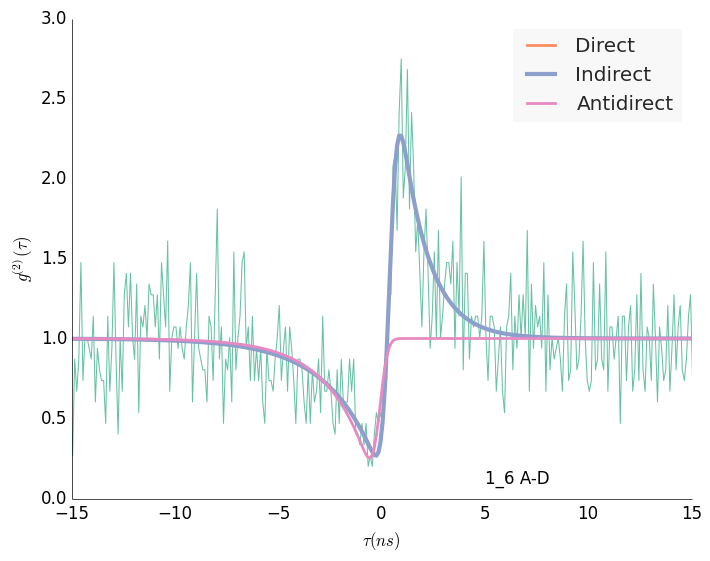
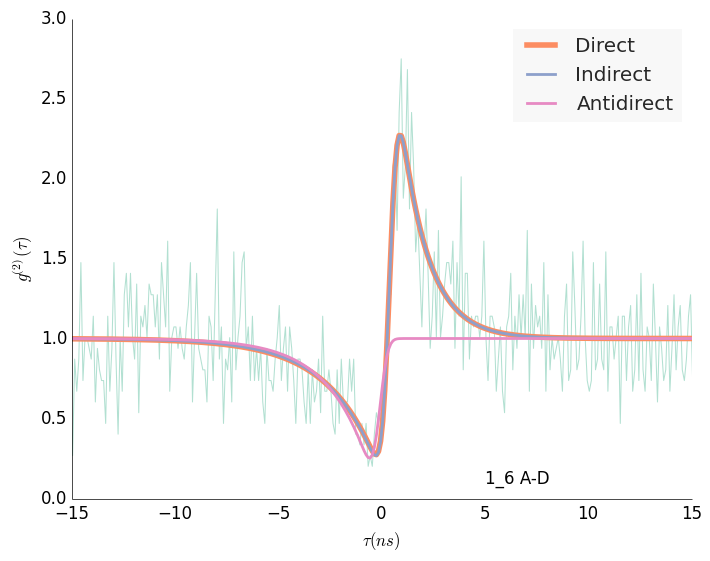
added peak 7 corrs

Changed region(s): [[0.5268, 0.1212, 0.9915, 0.7273], [0.093, 0.4242, 0.5577, 0.8182], [0.7437, 0.0606, 0.7746, 0.0909]]

diff --git a/corrs_specific.py b/corrs_specific.py
@@ -1,10 +1,9 @@
 import matplotlib.pyplot as plt
 
-# try:
-import prettyplotlib as ppl
-from prettyplotlib import brewer2mpl
-# except ImportError:
-#     ppl = plt
+try:
+    import prettyplotlib as ppl
+except ImportError:
+    ppl = plt
 
 
 import numpy as np
@@ -13,8 +12,15 @@ import g2 as g2
 np.seterr(all="ignore")
 
 
-names = ['1_3', '3_5', '2_3', '1_6', '2_6', '4_5']
-types = ['indirect', 'indirect', 'direct', 'direct', 'indirect', 'direct']
+types = ['indirect', 'indirect', 'direct', 'direct',
+         'indirect', 'direct', 'direct', 'direct',
+         'antidirect', 'antidirect', 'antidirect']
+
+names = ['1_3', '3_5', '2_3', '1_6', '2_6', '4_5', '1_7', '2_7', '3_7', '5_7', '6_7']
+labels = ['1_3 A-I', '3_5 A-I', '2_3 A-D', '1_6 A-D', '2_6 A-A/I', '4_5 A-D', '1_7', '2_7', '3_7', '5_7', '6_7']
+
+zeropoints = [171.6, 171.0, 171.5, 170.5, 171.1, 171.2, 171.2, 171.2, 171.2, 171.2, 171.2]
+
 
 p0s = [
     [0.6, 1.1, 0.4, 0.5, 0],
@@ -22,12 +28,13 @@ p0s = [
     [4, 1, 0.4, 0],
     [4, 1, 0.4, 0],
     [0.6, 1.1, 0.4, 0.5, 0],
-    [4, 1, 0.4, 0]
+    [4, 1, 0.4, 0],
+    [4, 1, 0.4, 0],
+    [4, 1, 0.4, 0],
+    [0.5, 0.5, 0],
+    [0.5, 0.5, 0],
+    [0.5, 0.5, 0]
 ]
-
-states = ['XXT5', 'XXT1', 'XP', 'XX', 'X', 'XT5']
-labels = ['1_3 A-I', '3_5 A-I', '2_3 A-D', '1_6 A-D', '2_6 A-A/I', '4_5 A-D']
-zeropoints = [171.6, 171.0, 171.5, 170.5, 171.1, 171.2]
 
 
 def main():
@@ -36,7 +43,7 @@ def main():
         file.write("")
 
     # for i in [5]:
-    for i in [0, 1, 2, 3, 4, 5]:
+    for i in [0, 1, 2, 3, 4, 5, 6, 7, 8, 9, 10]:
 
         name = names[i]
         label = labels[i]
@@ -57,6 +64,9 @@ def main():
         elif type == "indirect":
             popti, pcovi = optimize.curve_fit(g2.g2c_indirect, time, counts_n, p0=p0s[i])
             perri = np.sqrt(np.diag(pcovi))
+        elif type == "antidirect":
+            popta, pcova = optimize.curve_fit(g2.g2c_antidirect, time, counts_n, p0=p0s[i])
+            perra = np.sqrt(np.diag(pcova))
 
         with open('output/fit_specific.md', "a") as file:
             file.write("\n# %s\n" % label)
@@ -75,6 +85,11 @@ def main():
                 file.write("\tl3: %1.3lf +- %1.3lf\n" % (popti[2], perri[2]))
                 file.write("\tl2: %1.3lf +- %1.3lf\n" % (popti[3], perri[3]))
 
+            elif type == "antidirect":
+                file.write("## Antidirect\n")
+                file.write("\tl1: %1.3lf +- %1.3lf\n" % (popta[0], perra[0]))
+                file.write("\tl2: %1.3lf +- %1.3lf\n" % (popta[1], perra[1]))
+
         # just plotting stuff now
         plt.close()
         ppl.plot(time, counts_n)
@@ -82,6 +97,8 @@ def main():
             ppl.plot(time, g2.g2c_direct(time, *poptd), label="Direct", linewidth=2)
         elif type == "indirect":
             ppl.plot(time, g2.g2c_indirect(time, *popti), label="Indirect", linewidth=2)
+        elif type == "antidirect":
+            ppl.plot(time, g2.g2c_antidirect(time, *popta), label="Antidirect", linewidth=2)
 
         plt.text(5, 0.1, label)
         plt.xlim([-15, 15])
@@ -92,7 +109,7 @@ def main():
         plt.ylabel("$g^{(2)}(\\tau)$")
 
         print "saving output/corrs%s.png" % name
-        plt.savefig('output/corrs%s_specific.png' % name, bbox_extra_artists=[xlabel],
+        plt.savefig('output/specific_corrs%s.png' % name, bbox_extra_artists=[xlabel],
                     bbox_inches='tight')
 
 

diff --git a/spectrum.py b/spectrum.py
@@ -11,20 +11,40 @@ ax.spines['right'].set_visible(False)
 ax.spines['top'].set_visible(False)
 ax.xaxis.set_ticks_position('bottom')
 ax.yaxis.set_ticks_position('left')
+
 ax.yaxis.label.set_size(18)
 ax.xaxis.label.set_size(18)
 ax.ticklabel_format(useOffset=False)
 plt.setp(ax.spines.values(), alpha=0.5)
 plt.tick_params(axis='both', which='major', labelsize=16)
+# plt.tight_layout()
 
-data = np.loadtxt('input/A1208_28_05_14/02/spectrum.dat')
+data = np.loadtxt('./in/raw/A1208 RTD spectrum.dat')
+
 wavelength = data[:, 0]
 intensity = data[:, 1]
 max_intensity = 1.2*intensity.max()
 energy = (1000)*1239.84187/wavelength  # eV from wiki page on electronvolt
-peak_positions = [1393, 1394.85, 1396.67]
-names = ["$X-$", "$X$", "$XX$"]
-heights = [0.7, 0.9, 0.7]
+
+peak_positions = [
+    1386.85,
+    1387.3,
+    1390.58,
+    1391.2,
+    1391.89,
+    1392.55,
+]
+
+names = [
+    "$X_{T5/2}+$",
+    "$X$",
+    "$XX$",
+    "$X+$",
+    "$XX_{T1/2}+$",
+    "$XX_{T5/2}+$"
+]
+
+heights = [0.5, 0.7, 0.5, 0.9, 0.5, 0.7]
 
 for i in xrange(len(peak_positions)):
     pos = peak_positions[i]
@@ -33,11 +53,22 @@ for i in xrange(len(peak_positions)):
     plt.text(pos-0.25, max_intensity*(heights[i]+0.065), names[i], alpha=1, size=12)
 
 plt.fill_between(energy, intensity, color=set2[4])
-plt.xlim([1392, 1397.5])
+
+
+def gauss(x, *p):
+    a = 1400
+    b = 1391.2
+    c = p[0]
+    d = 37
+    return a*np.exp(-((x-b)**2)/(2*c**2)) + d
+
+plt.xlim([1385.5, 1393])
 plt.ylim([0, max_intensity])
+
 plt.yticks([])
 
 xlabel = plt.xlabel("Energy ($meV$)")
 plt.ylabel("Intensity (a.u.)")
 
-plt.savefig('./output/spectrum.png', bbox_extra_artists=[xlabel], bbox_inches='tight')
+plt.savefig('./temp/spectrum.png', bbox_extra_artists=[xlabel], bbox_inches='tight')
+plt.savefig('./temp/spectrum.pdf', bbox_extra_artists=[xlabel], bbox_inches='tight')

diff --git a/corrs_all.py b/corrs_all.py
@@ -1,11 +1,9 @@
 import matplotlib.pyplot as plt
 
-# try:
-import prettyplotlib as ppl
-from prettyplotlib import brewer2mpl
-# except ImportError:
-#     ppl = plt
-
+try:
+    import prettyplotlib as ppl
+except ImportError:
+    ppl = plt
 
 import numpy as np
 import scipy.optimize as optimize
@@ -13,10 +11,10 @@ import g2 as g2
 np.seterr(all="ignore")
 
 
-names = ['1_3', '3_5', '2_3', '1_6', '2_6', '4_5']
-states = ['XXT5', 'XXT1', 'XP', 'XX', 'X', 'XT5']
-labels = ['1_3 A-I', '3_5 A-I', '2_3 A-D', '1_6 A-D', '2_6 A-A/I', '4_5 A-D']
-zeropoints = [171.6, 171.0, 171.5, 170.5, 171.1, 171.2]
+names = ['1_3', '3_5', '2_3', '1_6', '2_6', '4_5', '1_7', '2_7', '3_7', '5_7', '6_7']
+states = ['XXT5', 'XXT1', 'XP', 'XX', 'X', 'XT5', '', '', '', '', '', '']
+labels = ['1_3 A-I', '3_5 A-I', '2_3 A-D', '1_6 A-D', '2_6 A-A/I', '4_5 A-D', '', '', '', '', '']
+zeropoints = [171.6, 171.0, 171.5, 170.5, 171.1, 171.2, 171.2, 171.2, 171.2, 171.2, 171.2]
 
 
 def main():
@@ -25,7 +23,7 @@ def main():
         file.write("")
 
     # for i in [5]:
-    for i in [0, 1, 2, 3, 4, 5]:
+    for i in [0, 1, 2, 3, 4, 5, 6, 7, 8, 9, 10]:
 
         name = names[i]
         label = labels[i]
@@ -68,9 +66,9 @@ def main():
 
         # just plotting stuff now
         plt.close()
-        ppl.plot(time, counts_n)
-        ppl.plot(time, g2.g2c_direct(time, *poptd), label="Direct", linewidth=2)
-        ppl.plot(time, g2.g2c_indirect(time, *popti), label="Indirect", linewidth=3)
+        ppl.plot(time, counts_n, alpha=0.5)
+        ppl.plot(time, g2.g2c_direct(time, *poptd), label="Direct", linewidth=4)
+        ppl.plot(time, g2.g2c_indirect(time, *popti), label="Indirect", linewidth=2)
         ppl.plot(time, g2.g2c_antidirect(time, *popta), label="Antidirect", linewidth=2)
 
         plt.text(5, 0.1, label)

diff --git a/output/fit.md b/output/fit.md
@@ -88,3 +88,78 @@
 ## Antidirect
 	l1: 34.511 +- 0.097
 	l2: 0.356 +- 683.051
+
+# 
+![](corrs1_7.png)
+## Direct
+	c1: 3.635 +- 0.344
+	l1: 0.790 +- 0.097
+	l2: 0.496 +- 0.090
+## Indirect
+	c1: 3.729 +- 1.888
+	l1: 0.790 +- 0.107
+	l3: 33.255 +- 578.358
+	l2: 0.508 +- 0.153
+## Antidirect
+	l1: 34.146 +- 0.600
+	l2: 0.864 +- 722.390
+
+# 
+![](corrs2_7.png)
+## Direct
+	c1: 0.285 +- 0.077
+	l1: 0.186 +- 0.068
+	l2: 0.797 +- 0.115
+## Indirect
+	c1: 0.287 +- 0.082
+	l1: 0.187 +- 0.068
+	l3: 32.945 +- 319.717
+	l2: 0.819 +- 0.241
+## Antidirect
+	l1: 33.177 +- 0.299
+	l2: 0.910 +- 306.571
+
+# 
+![](corrs3_7.png)
+## Direct
+	c1: -0.944 +- 0.282
+	l1: 1.020 +- 0.348
+	l2: 1.628 +- 0.797
+## Indirect
+	c1: 0.168 +- 0.153
+	l1: 0.063 +- 0.077
+	l3: 0.658 +- 0.211
+	l2: 2.193 +- 1.192
+## Antidirect
+	l1: 1.048 +- 0.740
+	l2: 1.703 +- 0.302
+
+# 
+![](corrs5_7.png)
+## Direct
+	c1: -1.156 +- 0.168
+	l1: 0.392 +- 0.079
+	l2: 2.564 +- 2.079
+## Indirect
+	c1: 36.021 +- 124811.076
+	l1: 0.642 +- 27.879
+	l3: 0.627 +- 26.220
+	l2: 3.355 +- 4.094
+## Antidirect
+	l1: 0.355 +- 1.470
+	l2: 2.098 +- 0.061
+
+# 
+![](corrs6_7.png)
+## Direct
+	c1: -0.841 +- 0.310
+	l1: 0.744 +- 0.283
+	l2: 1.524 +- 0.980
+## Indirect
+	c1: 0.068 +- 0.094
+	l1: -0.005 +- 0.100
+	l3: 0.657 +- 0.231
+	l2: 1.913 +- 1.193
+## Antidirect
+	l1: 0.813 +- 1.025
+	l2: 1.774 +- 0.246

diff --git a/output/fit_specific.md b/output/fit_specific.md
@@ -43,3 +43,35 @@
 	c1: 3.755 +- 0.451
 	l1: 1.285 +- 0.190
 	l2: 0.304 +- 0.034
+
+# 1_7
+![](corrs1_7_specific.png)
+## Direct
+	c1: 3.635 +- 0.344
+	l1: 0.790 +- 0.097
+	l2: 0.496 +- 0.089
+
+# 2_7
+![](corrs2_7_specific.png)
+## Direct
+	c1: 0.285 +- 0.077
+	l1: 0.186 +- 0.068
+	l2: 0.797 +- 0.115
+
+# 3_7
+![](corrs3_7_specific.png)
+## Antidirect
+	l1: 1.048 +- 0.302
+	l2: 1.702 +- 0.740
+
+# 5_7
+![](corrs5_7_specific.png)
+## Antidirect
+	l1: 0.355 +- 0.061
+	l2: 2.096 +- 1.473
+
+# 6_7
+![](corrs6_7_specific.png)
+## Antidirect
+	l1: 0.813 +- 0.246
+	l2: 1.774 +- 1.025
